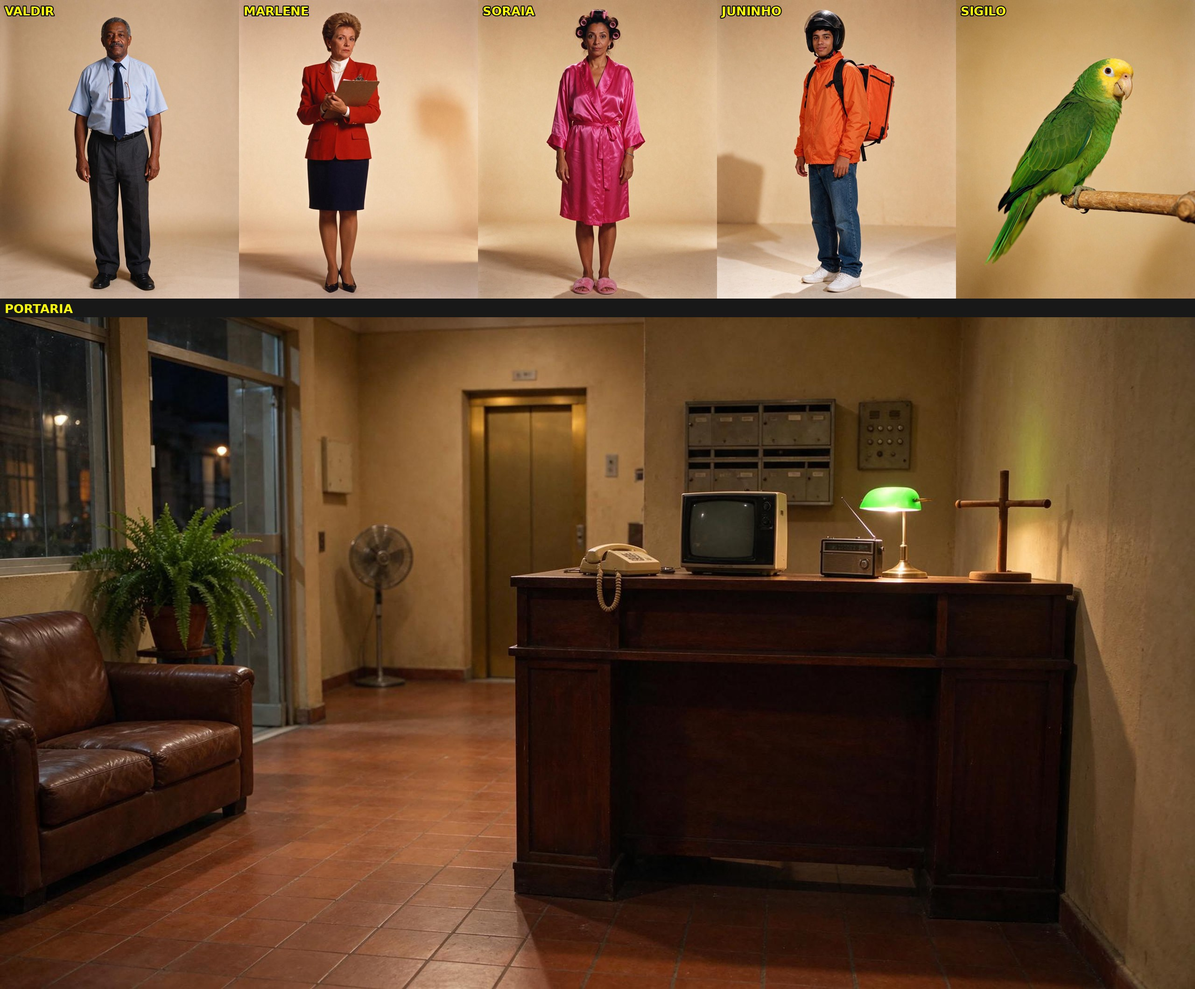
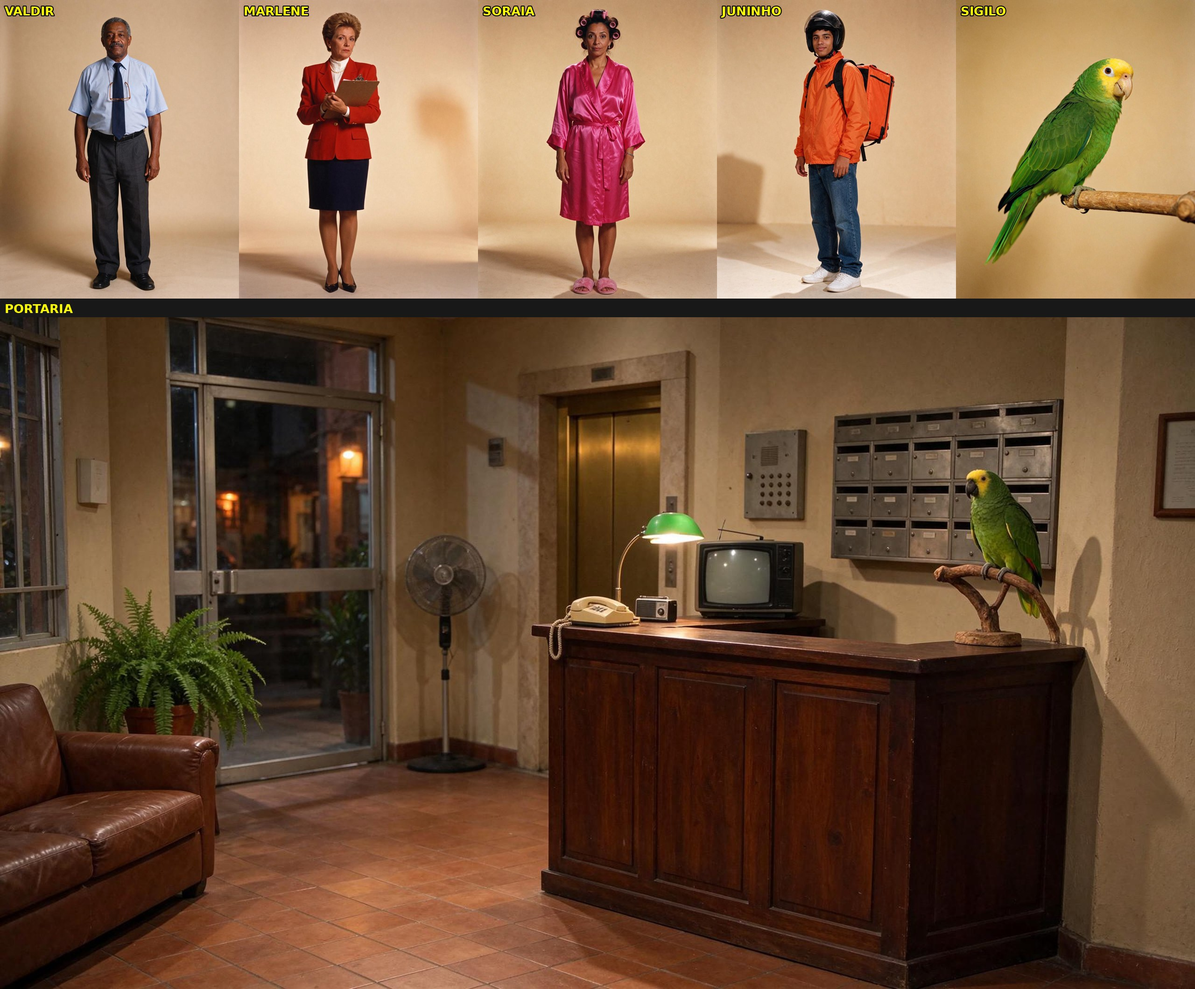
Edifício Sossego: redo lobby reference with the parrot on a branch perch (first perch read as a cross)
Claude-Session: https://claude.ai/code/session_01CYEraTgRKJNuKiFNAyFqLs

diff --git a/novelinhas/serie-portaria/gerar_referencias.py b/novelinhas/serie-portaria/gerar_referencias.py
@@ -45,8 +45,8 @@ IMAGENS = [
     ("portaria", 1920, 1080,
      "Wide shot of the entrance lobby of a small Brazilian apartment building in the 1990s, empty, no people. "
      "Center-right: a dark wooden doorman counter; on it a beige corded desk phone, a small CRT television, "
-     "a small portable radio, a lit desk lamp with a green shade, and at the right end of the counter an empty "
-     "wooden bird perch. Behind the counter a wall of plain metal mailboxes without numbers and an old intercom "
+     "a small portable radio, a lit desk lamp with a green shade, and at the right end of the counter a green "
+     "Amazon parrot with a yellow face standing on a low perch made of a curved natural tree branch. Behind the counter a wall of plain metal mailboxes without numbers and an old intercom "
      "panel with round buttons. Left: a worn brown leather sofa and a large fern in a clay pot. "
      "Left wall: a glass street door with a metal frame, night outside. Back wall: an elevator door with a gold "
      "frame. A standing fan. Beige walls, terracotta floor tiles. Camera at eye level, the counter fully visible."),
